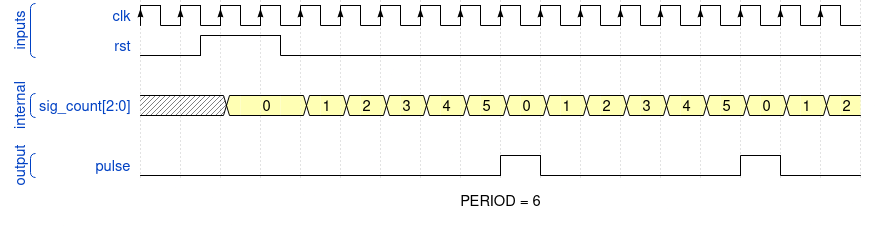
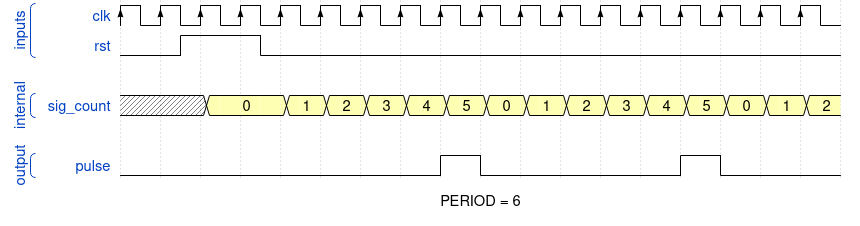
Integer data type used in clock enable

diff --git a/lab5-counter/README.md b/lab5-counter/README.md
@@ -16,8 +16,6 @@ After completing this lab you will be able to:
 * Use VHDL generics and synchronous processes
 * Use clock enable signal to drive another logic in the design (with slower clock)
 
-The purpose of this laboratory exercise is to become familiar with the creation of sequential processes in VHDL, next to implement a clock enable signal to drive another logic with slower clock, and to design a binary counter.
-
 <a name="preparation"></a>
 
 ## Pre-Lab preparation
@@ -152,11 +150,11 @@ We can write:
    ```vhdl
    entity some_entity is
        generic (
-           N : integer := some_defaul_value
+           NBIT : integer := some_defaul_value
        );
        port (
            clk     : in    std_logic;
-           counter : out   std_logic_vector(N-1 downto 0) -- Can be any width
+           counter : out   std_logic_vector(NBIT-1 downto 0) -- Can be any width
            -- (the desired width will be passed during instantiation in the generic map)
        );
    end entity some_entity;
@@ -164,13 +162,13 @@ We can write:
 
 1. Extend the code from the previous part and use generics in both, design and testbench sources.
 
-   In **design source**, use generic `N` to define number of bits for the counter. In **testbench**, define a constant, prior to declaring the component and use it to declare your internal counter signal:
+   In **design source**, use generic `NBIT` to define number of bits for the counter. In **testbench**, define a constant `C_NBIT`, prior to declaring the component and use it to declare your internal counter signal:
 
    ```vhdl
    -- Design source file
    entity simple_counter is
        generic (
-           N : integer := 4 --! Default number of bits
+           NBIT : integer := 4 --! Default number of bits
        );
        port (
            ...
@@ -180,21 +178,21 @@ We can write:
 
    ```vhdl
    -- Testbench file
-   constant COUNTER_WIDTH : integer := 6; --! Simulating number of bits
-   signal count : std_logic_vector(COUNTER_WIDTH-1 downto 0);
+   constant C_NBIT : integer := 6; --! Simulating number of bits
+   signal count : std_logic_vector(C_NBIT-1 downto 0);
    ```
 
-   When you instantiate your counter, you then also bind the `N` generic to this constant:
+   When you instantiate your counter, you then also bind the `NBIT` generic to this constant:
 
    ```vhdl
    dut : component simple_counter
        generic map (
-           N => COUNTER_WIDTH
+           NBIT => C_NBIT
        )
        ...
    ```
 
-2. Simulate your design and try several `COUNTER_WIDTH` values.
+2. Simulate your design and try several `C_NBIT` values.
 
 <a name="part3"></a>
 
@@ -213,17 +211,17 @@ To drive another logic in the design (with slower clock), it is better to genera
 >     ],
 >     {},
 >     ["internal",
->       {name: "sig_count[2:0]", wave: 'x.3.33333333333333', data: ["0","1","2","3","4","5","0","1","2","3","4","5","0","1","2",]},
+>       {name: "sig_count", wave: 'x.3.33333333333333', data: ["0","1","2","3","4","5","0","1","2","3","4","5","0","1","2",]},
 >     ],
 >     {},
 >     ["output",
->       {name: "pulse", wave: 'l........hl....hl.'},
+>       {name: "pulse", wave: 'l.......hl....hl..'},
 >     ],
 >   ],
 >   head: {
 >   },
 >   foot: {
->     text:'PERIOD = 6',
+>     text: 'PERIOD = 6',
 >   },
 > }
 > ```
@@ -249,54 +247,45 @@ To drive another logic in the design (with slower clock), it is better to genera
    end entity clock_enable;
    ```
 
-3. In architecture declaration part, define a local counter with a width calculated from the number of needed bits for `PERIOD`. To use math functions, add a new package to your VHDL file.
+3. Another way how to create a counter is the usage of `integer` data type. In architecture declaration part, define a local counter using the range of integers needed for `PERIOD` values. Because all incrementations will be performed with integers and not `std_logic_vector`, no extra package is used.
 
    ```vhdl
    library ieee;
        use ieee.std_logic_1164.all;
-       use ieee.std_logic_unsigned.all; -- Package for arithmetic operations with std_logic_vector
-       use ieee.math_real.all; -- To calculate the number of bits needed to represent an integer
 
    ...
    architecture behavioral of clock_enable is
-       --! Get number for needed bits for PERIOD value
-       constant bits_needed : integer := integer(ceil(log2(real(PERIOD + 1))));
-
-       --! Local counter with needed number of bits
-       signal sig_count : std_logic_vector(bits_needed - 1 downto 0);
+       --! Local counter
+       signal sig_count : integer range 0 to PERIOD-1;
    begin
    ```
 
 4. Complete the architecture to define the `clock_enable` according to the following structure.
 
-   ![clock enable rtl](images/teros_clock-enable_rtl.png)
-
    ```vhdl
    begin
-       --! Generate clock enable signal. By default, enable signal
-       --! is low and generated pulse is always one clock long.
+       --! Count the number of clock pulses from zero to PERIOD-1.
        p_clk_enable : process (clk) is
        begin
 
            -- Synchronous proces
            if (rising_edge(clk)) then
                -- if high-active reset then
+                   -- Clear integer counter
 
-                   -- Clear all bits of local counter
-                   -- Set output `pulse` to low
+               -- elsif sig_count is less than PERIOD-1 then
+                   -- Counting
 
-               -- elsif sig_count is PERIOD-1 then
-                   -- Clear all bits of local counter
-                   -- Set output `pulse` to high
-
-               -- else
-                   -- Increment local counter
-                   -- Set output `pulse` to low
+               -- else reached the end of counter
+                   -- Clear integer counter
 
                -- Each `if` must end by `end if`
            end if;
 
        end process p_clk_enable;
+
+       -- Generated pulse is always one clock long
+       -- when sig_count = PERIOD-1
 
    end architecture behavioral;
    ```
@@ -382,8 +371,6 @@ To drive another logic in the design (with slower clock), it is better to genera
 6. Compile the project (ie. transform the high-level VHDL code into a binary configuration file) and download the generated bitstream `YOUR-PROJECT-FOLDER/counter.runs/impl_1/top_level.bit` into the FPGA chip.
 
 7. Use **Flow > Open Elaborated design** and see the schematic after RTL analysis.
-
-8. Optional: Use digital oscilloscope or logic analyser and display counter values via Pmod ports of the Nexys A7 board.
 
 <a name="challenges"></a>
 
